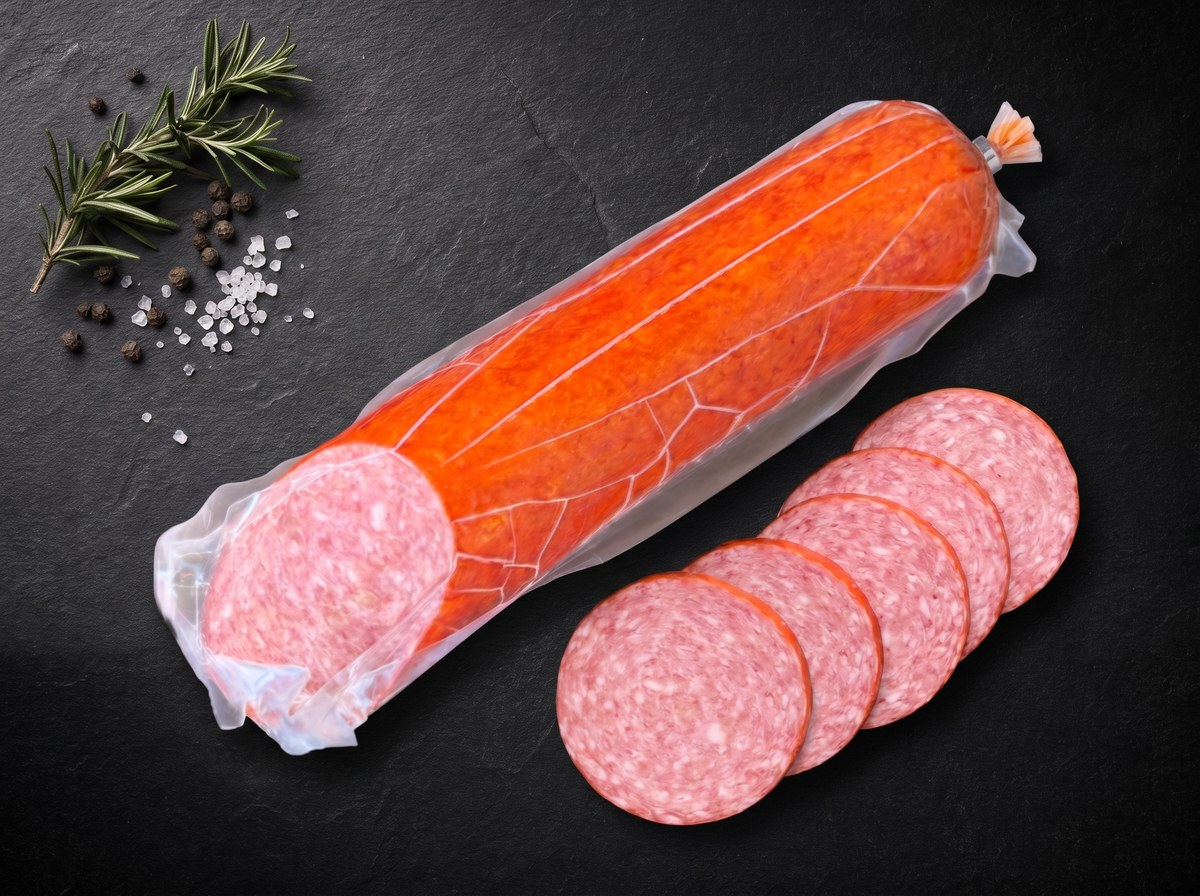
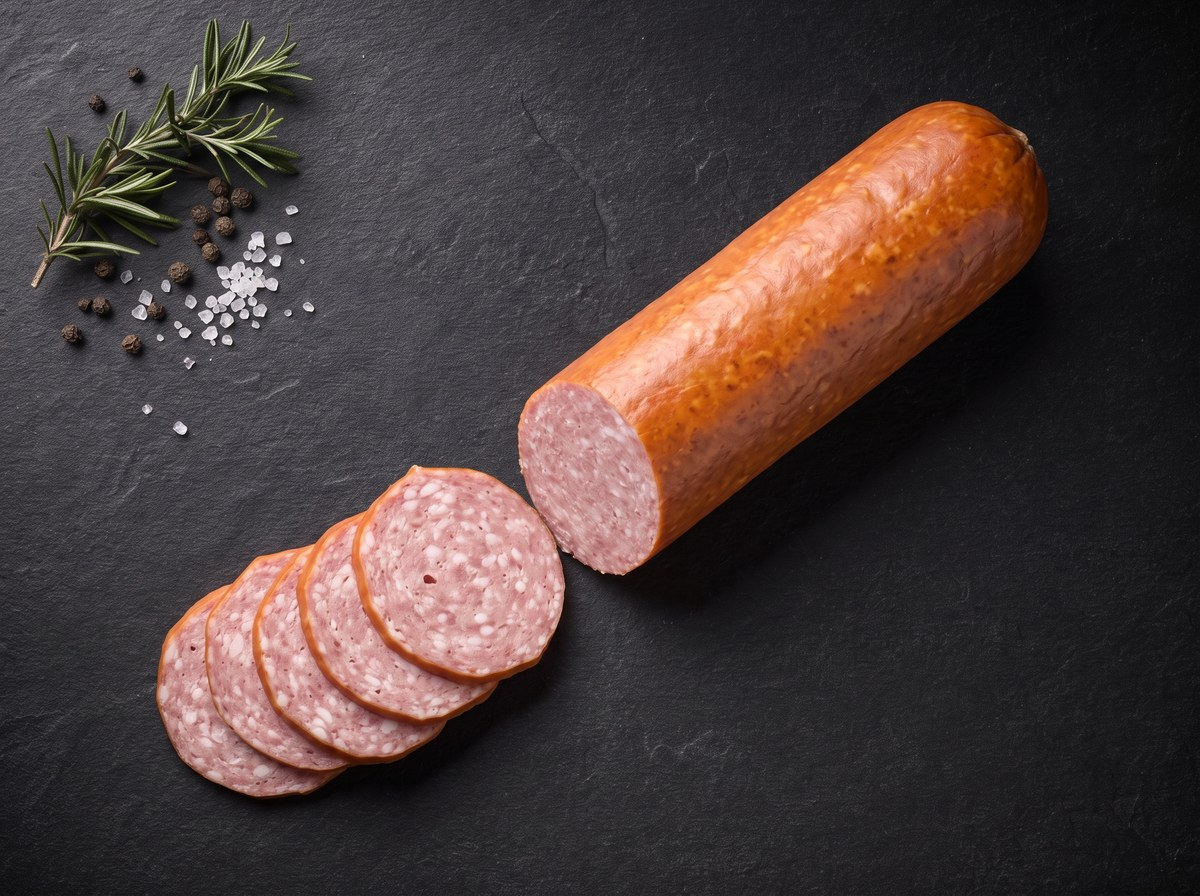
Site C: new photos for servelat, zelts, balyk, salami, crab, makkabi

diff --git a/img/w/dims.js b/img/w/dims.js
@@ -1,2 +1,2 @@
 /* generated by assets/make-images.py - do not edit */
-window.IMG_DIMS = {"img/balyk.jpg":[717,896,[320,480,717],"card"],"img/balykova.jpg":[717,896,[320,480,717],"card"],"img/braunshveizka.jpg":[717,896,[320,480,717],"card"],"img/buzhenyna.jpg":[717,896,[320,480,717],"card"],"img/bytok.jpg":[717,896,[320,480,717],"card"],"img/doktorska.jpg":[717,896,[320,480,717],"card"],"img/domashnia.jpg":[717,896,[320,480,717],"card"],"img/forel.jpg":[717,896,[320,480,717],"card"],"img/frantsuzka.jpg":[717,896,[320,480,717],"card"],"img/hero.jpg":[1200,896,[480,800,1200]],"img/ikra-chorna.jpg":[717,896,[320,480,717],"card"],"img/ikra-kety.jpg":[717,896,[320,480,717],"card"],"img/ikra-kyzhucha.jpg":[717,896,[320,480,717],"card"],"img/ikra-shchuky.jpg":[717,896,[320,480,717],"card"],"img/irlandska-z-balykom.jpg":[717,896,[320,480,717],"card"],"img/kabanosy.jpg":[717,896,[320,480,717],"card"],"img/kinder-joy.jpg":[960,1200,[320,480,720],"card"],"img/krab-kamchatsky.jpg":[717,896,[320,480,717],"card"],"img/krovyana.jpg":[717,896,[320,480,717],"card"],"img/kutum.jpg":[717,896,[320,480,717],"card"],"img/kyivska.jpg":[717,896,[320,480,717],"card"],"img/makkabi.jpg":[717,896,[320,480,717],"card"],"img/maslo.jpg":[717,896,[320,480,717],"card"],"img/okhotnychi-kovbasky.jpg":[717,896,[320,480,717],"card"],"img/oseledets-bilyi-vedmid.jpg":[717,896,[320,480,717],"card"],"img/oseledets-file.jpg":[717,896,[320,480,717],"card"],"img/osetryna.jpg":[717,896,[320,480,717],"card"],"img/osheek.jpg":[717,896,[320,480,717],"card"],"img/otbyvna.jpg":[717,896,[320,480,717],"card"],"img/pechen-tresky.jpg":[717,896,[320,480,717],"card"],"img/prezydentska.jpg":[717,896,[320,480,717],"card"],"img/rebra-kopcheni.jpg":[717,896,[320,480,717],"card"],"img/rebra-svizhi.jpg":[717,896,[320,480,717],"card"],"img/rulet-osetrovy.jpg":[717,896,[320,480,717],"card"],"img/salami-v-plisni.jpg":[717,896,[320,480,717],"card"],"img/salat-chuka.jpg":[717,896,[320,480,717],"card"],"img/salo-kopchene-na-vyshni.jpg":[717,896,[320,480,717],"card"],"img/salo-solene.jpg":[717,896,[320,480,717],"card"],"img/salo-zapechene.jpg":[717,896,[320,480,717],"card"],"img/sardelky-hryl.jpg":[717,896,[320,480,717],"card"],"img/sardelky-sochni.jpg":[717,896,[320,480,717],"card"],"img/servelat.jpg":[717,896,[320,480,717],"card"],"img/shashlyk-marynovany.jpg":[717,896,[320,480,717],"card"],"img/sosysky-fileini.jpg":[717,896,[320,480,717],"card"],"img/sosysky-salami.jpg":[717,896,[320,480,717],"card"],"img/sosysky-videnski.jpg":[717,896,[320,480,717],"card"],"img/story.jpg":[1200,896,[480,800,1200]],"img/syr-cheese-cult.jpg":[717,896,[320,480,717],"card"],"img/taran.jpg":[717,896,[320,480,717],"card"],"img/tort-kyivsky.jpg":[717,896,[320,480,717],"card"],"img/tsukerky-roshen.jpg":[717,896,[320,480,717],"card"],"img/tvoroh.jpg":[717,896,[320,480,717],"card"],"img/yalovychyna-kopchena.jpg":[717,896,[320,480,717],"card"],"img/zelts.jpg":[717,896,[320,480,717],"card"],"img/reviews/review-01-salo-ukr.jpg":[900,661,[400,800]],"img/reviews/review-02-salo-idealne.jpg":[570,255,[400,570]],"img/reviews/review-03-sardelky-kovbasa.jpg":[900,654,[400,800]],"img/reviews/review-04-doktorska-salo-vyshnia.jpg":[595,400,[400,595]],"img/reviews/review-05-ikra-ryba-miaso.jpg":[900,1250,[400,800]],"img/reviews/review-06-ikra-chorna-chervona.jpg":[680,368,[400,680]],"img/reviews/review-07-ikra-chervona-foto.jpg":[900,1042,[400,800]],"img/reviews/review-08-osetryna-ikra.jpg":[705,190,[400,705]],"img/reviews/review-09-tort-balyk.jpg":[870,395,[400,800]],"img/reviews/review-10-ikra-dostavka-speka.jpg":[900,221,[400,800]],"img/reviews/review-11-posylka-idealno.jpg":[460,243,[400,460]],"img/reviews/review-12-rebra-hryl.jpg":[460,513,[400,460]],"stamps/few_left_en.png":[1080,358,[400,800]],"stamps/few_left_ru.png":[1080,358,[400,800]],"stamps/few_left_uk.png":[1080,358,[400,800]],"stamps/in_stock_en.png":[1080,358,[400,800]],"stamps/in_stock_ru.png":[1080,358,[400,800]],"stamps/in_stock_uk.png":[1080,358,[400,800]],"stamps/new_batch_en.png":[1080,358,[400,800]],"stamps/new_batch_ru.png":[1080,358,[400,800]],"stamps/new_batch_uk.png":[1080,358,[400,800]],"stamps/preorder_en.png":[1080,358,[400,800]],"stamps/preorder_ru.png":[1080,358,[400,800]],"stamps/preorder_uk.png":[1080,358,[400,800]],"stamps/sold_out_en.png":[1080,358,[400,800]],"stamps/sold_out_ru.png":[1080,358,[400,800]],"stamps/sold_out_uk.png":[1080,358,[400,800]]};
+window.IMG_DIMS = {"img/balyk.before-b6.jpg":[717,896,[320,480,717],"card"],"img/balyk.jpg":[717,896,[320,480,717],"card"],"img/balykova.jpg":[717,896,[320,480,717],"card"],"img/braunshveizka.jpg":[717,896,[320,480,717],"card"],"img/buzhenyna.jpg":[717,896,[320,480,717],"card"],"img/bytok.jpg":[717,896,[320,480,717],"card"],"img/doktorska.jpg":[717,896,[320,480,717],"card"],"img/domashnia.jpg":[717,896,[320,480,717],"card"],"img/forel.jpg":[717,896,[320,480,717],"card"],"img/frantsuzka.jpg":[717,896,[320,480,717],"card"],"img/hero.jpg":[1200,896,[480,800,1200]],"img/ikra-chorna.jpg":[717,896,[320,480,717],"card"],"img/ikra-kety.jpg":[717,896,[320,480,717],"card"],"img/ikra-kyzhucha.jpg":[717,896,[320,480,717],"card"],"img/ikra-shchuky.jpg":[717,896,[320,480,717],"card"],"img/irlandska-z-balykom.jpg":[717,896,[320,480,717],"card"],"img/kabanosy.jpg":[717,896,[320,480,717],"card"],"img/kinder-joy.jpg":[960,1200,[320,480,720],"card"],"img/krab-kamchatsky.before-b6.jpg":[717,896,[320,480,717],"card"],"img/krab-kamchatsky.jpg":[717,896,[320,480,717],"card"],"img/krovyana.jpg":[717,896,[320,480,717],"card"],"img/kutum.jpg":[717,896,[320,480,717],"card"],"img/kyivska.jpg":[717,896,[320,480,717],"card"],"img/makkabi.before-b6.jpg":[717,896,[320,480,717],"card"],"img/makkabi.jpg":[717,896,[320,480,717],"card"],"img/maslo.jpg":[717,896,[320,480,717],"card"],"img/okhotnychi-kovbasky.jpg":[717,896,[320,480,717],"card"],"img/oseledets-bilyi-vedmid.jpg":[717,896,[320,480,717],"card"],"img/oseledets-file.jpg":[717,896,[320,480,717],"card"],"img/osetryna.jpg":[717,896,[320,480,717],"card"],"img/osheek.jpg":[717,896,[320,480,717],"card"],"img/otbyvna.jpg":[717,896,[320,480,717],"card"],"img/pechen-tresky.jpg":[717,896,[320,480,717],"card"],"img/prezydentska.jpg":[717,896,[320,480,717],"card"],"img/rebra-kopcheni.jpg":[717,896,[320,480,717],"card"],"img/rebra-svizhi.jpg":[717,896,[320,480,717],"card"],"img/rulet-osetrovy.jpg":[717,896,[320,480,717],"card"],"img/salami-v-plisni.before-b6.jpg":[717,896,[320,480,717],"card"],"img/salami-v-plisni.jpg":[717,896,[320,480,717],"card"],"img/salat-chuka.jpg":[717,896,[320,480,717],"card"],"img/salo-kopchene-na-vyshni.jpg":[717,896,[320,480,717],"card"],"img/salo-solene.jpg":[717,896,[320,480,717],"card"],"img/salo-zapechene.jpg":[717,896,[320,480,717],"card"],"img/sardelky-hryl.jpg":[717,896,[320,480,717],"card"],"img/sardelky-sochni.jpg":[717,896,[320,480,717],"card"],"img/servelat.before-b6.jpg":[717,896,[320,480,717],"card"],"img/servelat.jpg":[717,896,[320,480,717],"card"],"img/shashlyk-marynovany.jpg":[717,896,[320,480,717],"card"],"img/sosysky-fileini.jpg":[717,896,[320,480,717],"card"],"img/sosysky-salami.jpg":[717,896,[320,480,717],"card"],"img/sosysky-videnski.jpg":[717,896,[320,480,717],"card"],"img/story.jpg":[1200,896,[480,800,1200]],"img/syr-cheese-cult.jpg":[717,896,[320,480,717],"card"],"img/taran.jpg":[717,896,[320,480,717],"card"],"img/tort-kyivsky.jpg":[717,896,[320,480,717],"card"],"img/tsukerky-roshen.jpg":[717,896,[320,480,717],"card"],"img/tvoroh.jpg":[717,896,[320,480,717],"card"],"img/yalovychyna-kopchena.jpg":[717,896,[320,480,717],"card"],"img/zelts.before-b6.jpg":[717,896,[320,480,717],"card"],"img/zelts.jpg":[717,896,[320,480,717],"card"],"img/reviews/review-01-salo-ukr.jpg":[900,661,[400,800]],"img/reviews/review-02-salo-idealne.jpg":[570,255,[400,570]],"img/reviews/review-03-sardelky-kovbasa.jpg":[900,654,[400,800]],"img/reviews/review-04-doktorska-salo-vyshnia.jpg":[595,400,[400,595]],"img/reviews/review-05-ikra-ryba-miaso.jpg":[900,1250,[400,800]],"img/reviews/review-06-ikra-chorna-chervona.jpg":[680,368,[400,680]],"img/reviews/review-07-ikra-chervona-foto.jpg":[900,1042,[400,800]],"img/reviews/review-08-osetryna-ikra.jpg":[705,190,[400,705]],"img/reviews/review-09-tort-balyk.jpg":[870,395,[400,800]],"img/reviews/review-10-ikra-dostavka-speka.jpg":[900,221,[400,800]],"img/reviews/review-11-posylka-idealno.jpg":[460,243,[400,460]],"img/reviews/review-12-rebra-hryl.jpg":[460,513,[400,460]],"stamps/few_left_en.png":[1080,358,[400,800]],"stamps/few_left_ru.png":[1080,358,[400,800]],"stamps/few_left_uk.png":[1080,358,[400,800]],"stamps/in_stock_en.png":[1080,358,[400,800]],"stamps/in_stock_ru.png":[1080,358,[400,800]],"stamps/in_stock_uk.png":[1080,358,[400,800]],"stamps/new_batch_en.png":[1080,358,[400,800]],"stamps/new_batch_ru.png":[1080,358,[400,800]],"stamps/new_batch_uk.png":[1080,358,[400,800]],"stamps/preorder_en.png":[1080,358,[400,800]],"stamps/preorder_ru.png":[1080,358,[400,800]],"stamps/preorder_uk.png":[1080,358,[400,800]],"stamps/sold_out_en.png":[1080,358,[400,800]],"stamps/sold_out_ru.png":[1080,358,[400,800]],"stamps/sold_out_uk.png":[1080,358,[400,800]]};
